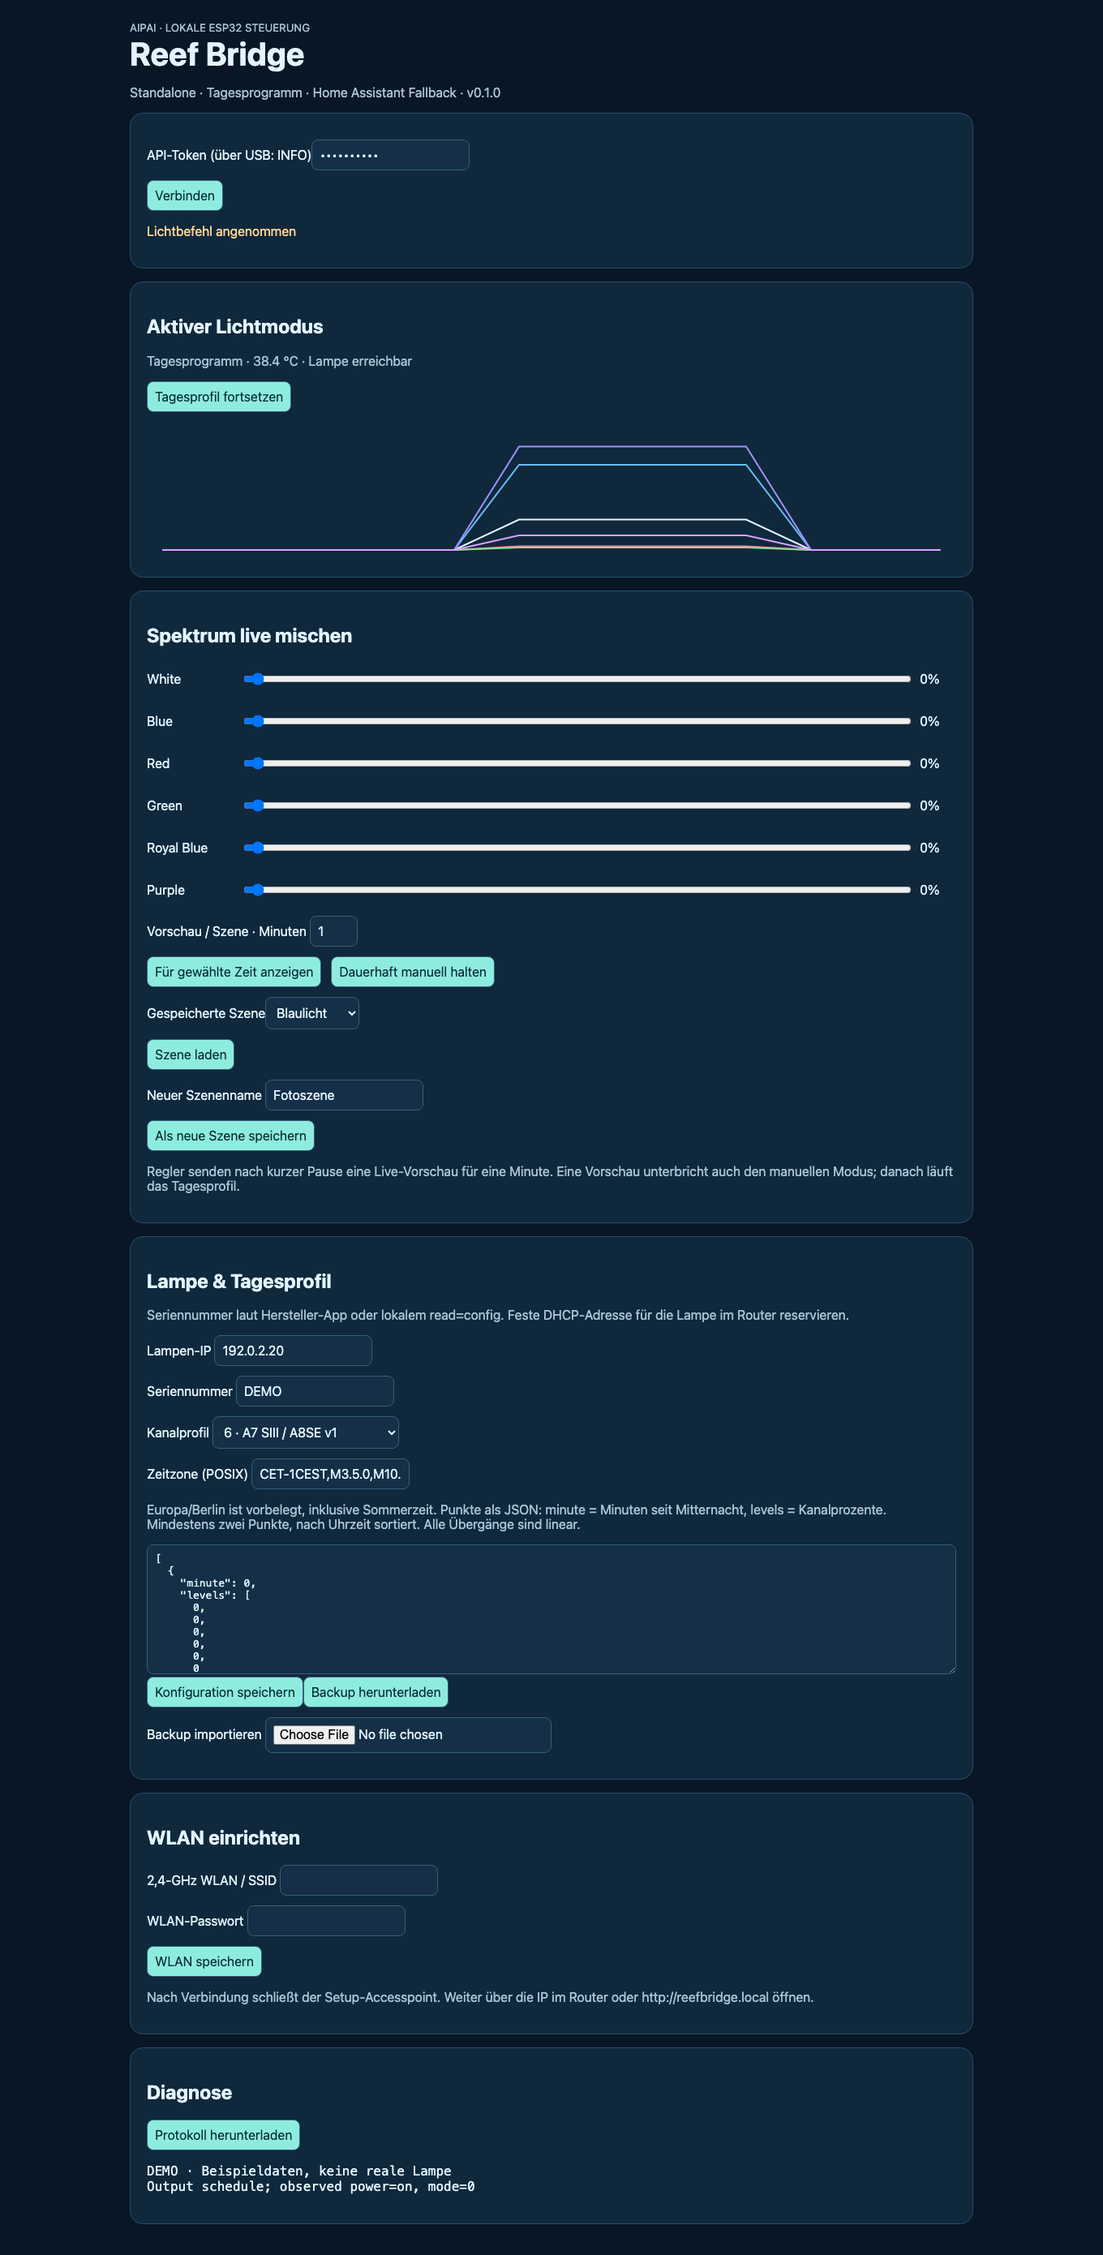
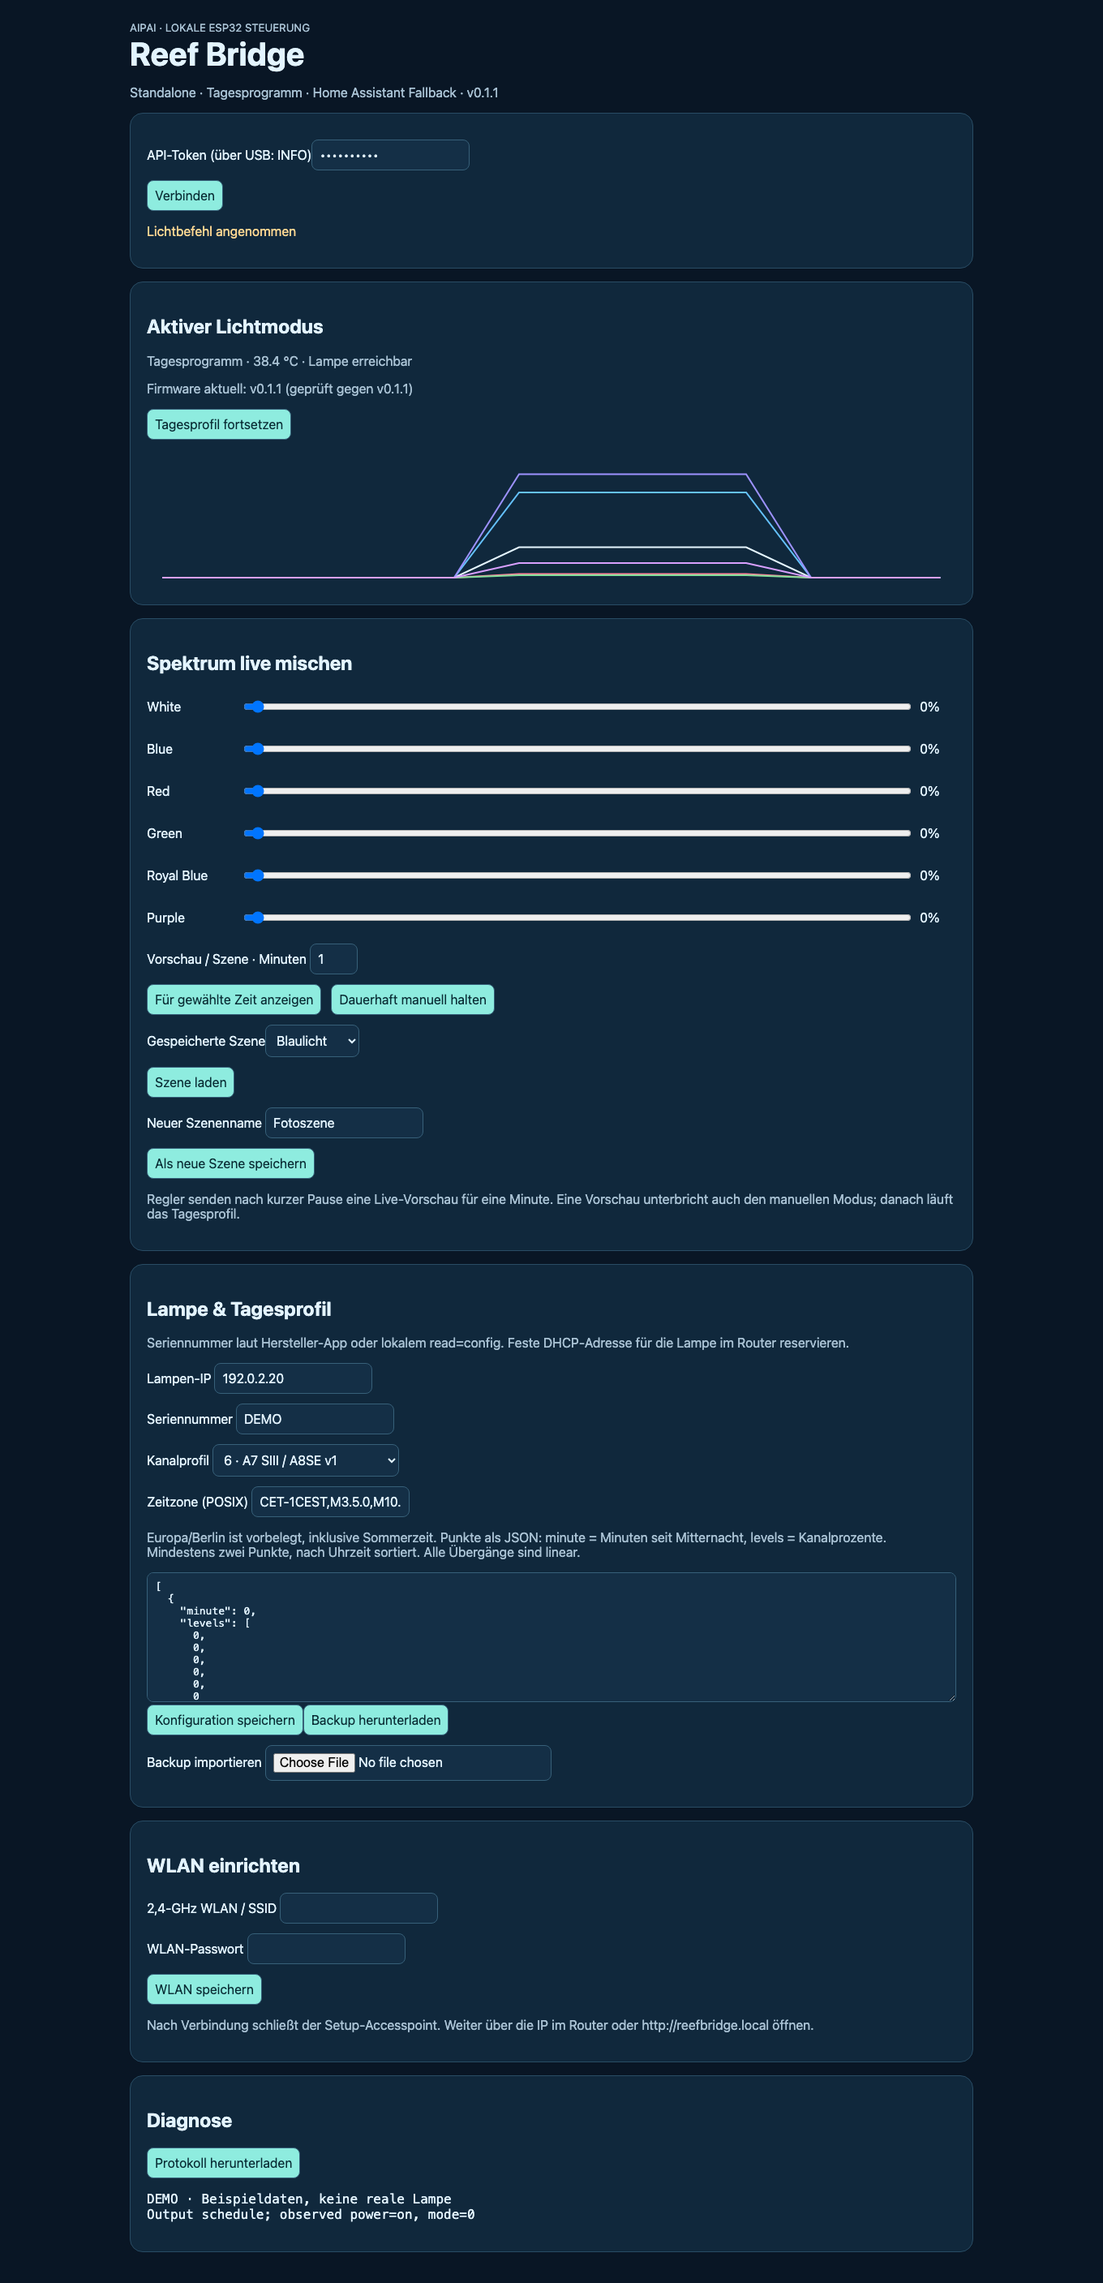
Add Reef Bridge update checks

diff --git a/reef-bridge/web/index.html b/reef-bridge/web/index.html
@@ -1,8 +1,8 @@
 <!doctype html><html lang="de"><meta charset="utf-8"><meta name="viewport" content="width=device-width,initial-scale=1"><title>AIPAI Reef Bridge</title>
 <style>body{background:#091625;color:#e3f4ff;font:16px system-ui;margin:0}main{max-width:1040px;margin:auto;padding:24px}h1{font-size:2.5rem;margin:0}p,small{color:#a9c2d4}section{background:#10283c;border:1px solid #294c64;border-radius:16px;padding:20px;margin:16px 0}button,input,select,textarea{font:inherit;border-radius:8px;border:1px solid #376079;background:#142f46;color:inherit;padding:9px;box-sizing:border-box}button{background:#8eecdf;color:#092c34;cursor:pointer}label{display:block;margin:12px 0}input,select{max-width:100%}textarea{width:100%;min-height:160px;font:13px monospace}pre{white-space:pre-wrap;overflow-wrap:anywhere}svg{width:100%;height:180px}.row{display:flex;gap:12px;flex-wrap:wrap}.channel{display:grid;grid-template-columns:105px 1fr 45px;align-items:center;gap:12px}.channel input{width:100%}#notice{color:#ffd792}a{color:#8eecdf}</style>
-<main><small>AIPAI · LOKALE ESP32 STEUERUNG</small><h1>Reef Bridge</h1><p>Standalone · Tagesprogramm · Home Assistant Fallback · v0.1.0</p>
+<main><small>AIPAI · LOKALE ESP32 STEUERUNG</small><h1>Reef Bridge</h1><p>Standalone · Tagesprogramm · Home Assistant Fallback · v0.1.1</p>
 <section><label>API-Token (über USB: INFO)<input id="token" type="password" autocomplete="off"></label><button id="connect">Verbinden</button><p id="notice" role="status"></p></section>
-<section><h2>Aktiver Lichtmodus</h2><p id="status">Noch nicht verbunden</p><button id="resume">Tagesprofil fortsetzen</button><svg id="curve" viewBox="0 0 960 180" aria-label="Tagesprofil"></svg></section>
+<section><h2>Aktiver Lichtmodus</h2><p id="status">Noch nicht verbunden</p><p id="update"><small>Update-Prüfung erfolgt nach WLAN-Verbindung und danach alle sechs Stunden.</small></p><button id="resume">Tagesprofil fortsetzen</button><svg id="curve" viewBox="0 0 960 180" aria-label="Tagesprofil"></svg></section>
 <section><h2>Spektrum live mischen</h2><div id="channels"></div><label>Vorschau / Szene · Minuten <input id="minutes" type="number" min="1" max="60" value="1"></label><div class="row"><button id="preview">Für gewählte Zeit anzeigen</button><button id="manual">Dauerhaft manuell halten</button></div><label>Gespeicherte Szene<select id="scenes"></select></label><button id="load-scene">Szene laden</button><label>Neuer Szenenname <input id="scene-name" maxlength="64"></label><button id="save-scene">Als neue Szene speichern</button><p>Regler senden nach kurzer Pause eine Live-Vorschau für eine Minute. Eine Vorschau unterbricht auch den manuellen Modus; danach läuft das Tagesprofil.</p></section>
 <section><h2>Lampe & Tagesprofil</h2><p>Seriennummer laut Hersteller-App oder lokalem read=config. Feste DHCP-Adresse für die Lampe im Router reservieren.</p><label>Lampen-IP <input id="lamp-ip" placeholder="192.168.178.141"></label><label>Seriennummer <input id="serial"></label><label>Kanalprofil <select id="count"><option value="6">6 · A7 SIII / A8SE v1</option><option value="8">8 · A8SE II MAX / MAX Pro</option></select></label><label>Zeitzone (POSIX) <input id="zone" value="CET-1CEST,M3.5.0,M10.5.0/3"></label><p>Europa/Berlin ist vorbelegt, inklusive Sommerzeit. Punkte als JSON: minute = Minuten seit Mitternacht, levels = Kanalprozente. Mindestens zwei Punkte, nach Uhrzeit sortiert. Alle Übergänge sind linear.</p><textarea id="points" spellcheck="false"></textarea><button id="save">Konfiguration speichern</button><button id="export">Backup herunterladen</button><label>Backup importieren <input id="import" type="file" accept="application/json"></label></section>
 <section><h2>WLAN einrichten</h2><label>2,4-GHz WLAN / SSID <input id="ssid"></label><label>WLAN-Passwort <input id="wifi-password" type="password"></label><button id="wifi">WLAN speichern</button><p>Nach Verbindung schließt der Setup-Accesspoint. Weiter über die IP im Router oder http://reefbridge.local öffnen.</p></section>
@@ -17,7 +17,7 @@ function download(name,data){const a=document.createElement('a'),url=URL.createO
 function renderLevels(){ $('channels').replaceChildren();levels.forEach((v,i)=>{const label=document.createElement('label');label.className='channel';const title=document.createElement('span');title.textContent=labels[i];const input=document.createElement('input');input.type='range';input.min=0;input.max=100;input.value=v;const out=document.createElement('output');out.textContent=v+'%';input.oninput=()=>{levels[i]=Number(input.value);out.textContent=input.value+'%';clearTimeout(autoTimer);autoTimer=setTimeout(()=>control('preview',60),250);};label.append(title,input,out);$('channels').append(label);});}
 function curve(points){const colors=['#e5f6ff','#65c2ff','#ff819a','#85df9b','#9d92ff','#d9a0ff','#a96aff','#ffc880'];$('curve').replaceChildren();for(let i=0;i<Number($('count').value);i++){const line=document.createElementNS('http://www.w3.org/2000/svg','polyline');line.setAttribute('points',(points||[]).map(p=>(p.minute/1440*960)+','+(170-(p.levels[i]||0)*1.5)).join(' '));line.setAttribute('fill','none');line.setAttribute('stroke',colors[i]);line.setAttribute('stroke-width',2);$('curve').append(line);}}
 function configForm(c){$('lamp-ip').value=c.lamp_ip||'';$('serial').value=c.serial||'';$('count').value=c.channels||6;$('zone').value=c.timezone||'CET-1CEST,M3.5.0,M10.5.0/3';$('points').value=JSON.stringify(c.points||[{minute:0,levels:[0,0,0,0,0,0]},{minute:600,levels:[15,40,0,0,50,5]},{minute:1200,levels:[0,0,0,0,0,0]}],null,2);curve(c.points);}
-async function refresh(){try{state=await api('status');const modes={schedule:'Tagesprogramm',manual:'Dauerhaft manuell',preview:'Zeitbegrenzte Vorschau / Szene',lease:'Home Assistant'};$('status').textContent=(modes[state.mode]||state.mode)+' · '+(state.remaining_seconds?state.remaining_seconds+' s verbleibend · ':'')+(state.temperature!=null?state.temperature.toFixed(1)+' °C · ':'')+(state.lamp_online?'Lampe erreichbar':'Noch keine erfolgreiche Lampenabfrage')+(state.clock_valid?'':' · Warte auf gültige Uhrzeit')+(state.error?' · '+state.error:'');$('log').textContent=(state.log||[]).join('\n');if(!dirty)configForm(state.config||{});if(levels.length!==(state.config.channels||6)){levels=Array(state.config.channels||6).fill(0);renderLevels();}$('scenes').replaceChildren(...(state.config.scenes||[]).map((s,i)=>new Option(s.name,i)));}catch(e){notice(e.message);}}
+async function refresh(){try{state=await api('status');const modes={schedule:'Tagesprogramm',manual:'Dauerhaft manuell',preview:'Zeitbegrenzte Vorschau / Szene',lease:'Home Assistant'};$('status').textContent=(modes[state.mode]||state.mode)+' · '+(state.remaining_seconds?state.remaining_seconds+' s verbleibend · ':'')+(state.temperature!=null?state.temperature.toFixed(1)+' °C · ':'')+(state.lamp_online?'Lampe erreichbar':'Noch keine erfolgreiche Lampenabfrage')+(state.clock_valid?'':' · Warte auf gültige Uhrzeit')+(state.error?' · '+state.error:'');const update=state.update||{};$('update').replaceChildren();if(update.available){const link=document.createElement('a');link.href=update.installer_url||'https://xsiimonox.github.io/aipai-reef-studio/';link.target='_blank';link.rel='noopener';link.textContent='Update verfügbar: v'+update.latest+' – Installer öffnen';$('update').append(link);}else $('update').textContent=update.latest?'Firmware aktuell: v'+state.version+' (geprüft gegen v'+update.latest+')':'Update-Prüfung läuft nach WLAN-Verbindung.';$('log').textContent=(state.log||[]).join('\n');if(!dirty)configForm(state.config||{});if(levels.length!==(state.config.channels||6)){levels=Array(state.config.channels||6).fill(0);renderLevels();}$('scenes').replaceChildren(...(state.config.scenes||[]).map((s,i)=>new Option(s.name,i)));}catch(e){notice(e.message);}}
 async function control(action,seconds){if(busy){queued=true;return;}busy=true;try{await api('control',{action,seconds,levels:[...levels]});notice('Lichtbefehl angenommen');await refresh();}catch(e){notice(e.message);}finally{busy=false;if(queued){queued=false;control('preview',60);}}}
 function configuration(){return{lamp_ip:$('lamp-ip').value.trim(),serial:$('serial').value.trim(),channels:Number($('count').value),timezone:$('zone').value.trim(),points:JSON.parse($('points').value),scenes:state?.config?.scenes||[]};}
 async function save(){try{const c=configuration();await api('config',c);dirty=false;await refresh();notice('Konfiguration gespeichert');}catch(e){notice(e.message);}}

diff --git a/reef-bridge/installer/index.html b/reef-bridge/installer/index.html
@@ -1,7 +1,7 @@
 <!doctype html><html lang="de"><meta charset="utf-8"><meta name="viewport" content="width=device-width,initial-scale=1"><title>Reef Bridge installieren</title>
 <style>body{background:#091625;color:#e3f4ff;font:18px system-ui;max-width:760px;margin:60px auto;padding:20px;line-height:1.6}h1{color:#8eecdf}a{color:#8eecdf}</style>
 <script type="module" src="https://unpkg.com/esp-web-tools@10.1.1/dist/web/install-button.js?module"></script>
-<h1>AIPAI Reef Bridge</h1><p>ESP32-WROOM / ESP32 DevKit · mindestens 4 MB Flash · Firmware 0.1.0 (experimentell)</p>
+<h1>AIPAI Reef Bridge</h1><p>ESP32-WROOM / ESP32 DevKit · mindestens 4 MB Flash · Firmware 0.1.1 (experimentell)</p>
 <p>ESP32 per USB-Datenkabel verbinden. In Chrome oder Edge unter Windows bzw. macOS öffnen, dann installieren. Safari und Firefox unterstützen Web Serial nicht. ESP32-S2, S3 und C3 benötigen andere Firmware und sind hier noch nicht unterstützt.</p>
 <esp-web-install-button manifest="manifest.json"></esp-web-install-button>
 <p>Bei Bedarf BOOT beim Verbinden gedrückt halten. Das Setup-WLAN verwendet bei einer neuen Installation das Passwort <code>ReefBridge2026!</code>. „Logs & Console“ öffnen und <code>INFO</code> senden, um es zu prüfen und den individuellen API-Token zu notieren.</p>

diff --git a/reef-bridge/src/main.cpp b/reef-bridge/src/main.cpp
@@ -2,6 +2,7 @@
 #include <WiFi.h>
 #include <WebServer.h>
 #include <HTTPClient.h>
+#include <WiFiClientSecure.h>
 #include <Preferences.h>
 #include <ESPmDNS.h>
 #include <ArduinoJson.h>
@@ -14,13 +15,15 @@ Preferences prefs;
 DynamicJsonDocument config(16384);
 String token, apPassword, events[80], lastError;
 unsigned eventCount = 0;
-uint32_t lastOutput = 0, overrideEnd = 0, lastReconnect = 0;
+uint32_t lastOutput = 0, overrideEnd = 0, lastReconnect = 0, lastUpdateCheck = 0;
 String mode = "schedule";
 int overrideLevels[8] = {}, sent[8] = {};
 float temperature = NAN;
-bool lampOnline = false, forceOutput = true;
+bool lampOnline = false, forceOutput = true, updateAvailable = false;
+String latestVersion, updateUrl;
 const char* codes[] = {"w", "b", "r", "g", "b2", "p", "uv", "wm"};
 const char* defaultApPassword = "ReefBridge2026!";
+const char* updateManifestUrl = "https://xsiimonox.github.io/aipai-reef-studio/bridge-update.json";
 
 bool expired(uint32_t deadline) { return int32_t(millis() - deadline) >= 0; }
 void logEvent(String text) {
@@ -34,6 +37,37 @@ String randomSecret() {
   return String(buf);
 }
 int channels() { return config["channels"] | 6; }
+int compareVersion(const String& a, const String& b) {
+  int ai = 0, bi = 0;
+  for (int part = 0; part < 3; part++) {
+    int ae = a.indexOf('.', ai), be = b.indexOf('.', bi);
+    int an = a.substring(ai, ae < 0 ? a.length() : ae).toInt();
+    int bn = b.substring(bi, be < 0 ? b.length() : be).toInt();
+    if (an != bn) return an < bn ? -1 : 1;
+    ai = ae < 0 ? a.length() : ae + 1;
+    bi = be < 0 ? b.length() : be + 1;
+  }
+  return 0;
+}
+void checkForUpdate() {
+  lastUpdateCheck = millis();
+  if (WiFi.status() != WL_CONNECTED) return;
+  WiFiClientSecure client; client.setInsecure();
+  HTTPClient http; http.setConnectTimeout(3000); http.setTimeout(4000);
+  if (!http.begin(client, updateManifestUrl)) return;
+  int status = http.GET();
+  String body = status == 200 ? http.getString() : "";
+  http.end();
+  if (status != 200) { logEvent("Update check unavailable (HTTP " + String(status) + ")"); return; }
+  DynamicJsonDocument update(1024);
+  if (deserializeJson(update, body)) { logEvent("Update manifest is invalid"); return; }
+  String version = update["version"] | "";
+  if (version.isEmpty()) { logEvent("Update manifest has no version"); return; }
+  latestVersion = version; updateUrl = update["installer_url"] | "";
+  bool wasAvailable = updateAvailable;
+  updateAvailable = compareVersion(BRIDGE_VERSION, latestVersion) < 0;
+  if (updateAvailable && !wasAvailable) logEvent("Firmware update available: v" + latestVersion);
+}
 void saveConfig() {
   String json; serializeJson(config, json); prefs.putString("config", json);
 }
@@ -202,6 +236,9 @@ void setup() {
     doc["remaining_seconds"] = overrideEnd && !expired(overrideEnd) ? (overrideEnd - millis() + 999) / 1000 : 0;
     if (isfinite(temperature)) doc["temperature"] = temperature;
     doc["error"] = lastError; doc["config"].set(config.as<JsonObject>());
+    JsonObject update = doc.createNestedObject("update");
+    update["available"] = updateAvailable; update["latest"] = latestVersion;
+    update["installer_url"] = updateUrl;
     JsonArray values = doc.createNestedArray("sent"); for (int i=0;i<channels();i++) values.add(sent[i]);
     JsonArray log = doc.createNestedArray("log"); unsigned start = eventCount > 80 ? eventCount-80 : 0;
     for (unsigned i=start;i<eventCount;i++) log.add(events[i%80]);
@@ -248,6 +285,7 @@ void loop() {
     static bool mdns=false; if(!mdns) mdns=MDNS.begin("reefbridge");
     // Setup AP shuts down after the first successful station connection.
     static bool apStopped=false; if(!apStopped) { WiFi.softAPdisconnect(true); apStopped=true; }
+    if (!lastUpdateCheck || millis() - lastUpdateCheck >= 6UL * 60UL * 60UL * 1000UL) checkForUpdate();
   } else if(millis()-lastReconnect>30000) { lastReconnect=millis(); WiFi.reconnect(); }
   if (forceOutput || millis()-lastOutput>=30000 || (overrideEnd && expired(overrideEnd))) {
     forceOutput=false; lastOutput=millis(); output();

diff --git a/reef-bridge/README.md b/reef-bridge/README.md
@@ -1,6 +1,6 @@
 # AIPAI Reef Bridge für ESP32
 
-Eigenständige lokale Steuerung für AIPAI-LED-Lampen – ohne Home Assistant erforderlich. Optional kann Home Assistant über die lokale Bridge-API steuern. Dies ist **Version 0.1.0, ein experimenteller Prototyp**. Kompilieren und simulierte Prüfungen ersetzen keinen Dauertest am echten ESP32 und der Lampe.
+Eigenständige lokale Steuerung für AIPAI-LED-Lampen – ohne Home Assistant erforderlich. Optional kann Home Assistant über die lokale Bridge-API steuern. Dies ist **Version 0.1.1, ein experimenteller Prototyp**. Kompilieren und simulierte Prüfungen ersetzen keinen Dauertest am echten ESP32 und der Lampe.
 
 ![Architektur und Fallback](docs/architecture.svg)
 
@@ -20,9 +20,10 @@ Eigenständige lokale Steuerung für AIPAI-LED-Lampen – ohne Home Assistant er
 - Gerätename/IP, Kanalprofil, Seriennummer-Prüfung, POSIX-Zeitzone mit Sommerzeit, NTP, Temperatur und Diagnoseprotokoll.
 - Programme und WLAN bleiben im Flash; nach Neustart läuft das Tagesprogramm weiter, sobald eine gültige Uhrzeit vorliegt. Temporäre/manuelle Overrides werden beim Neustart aufgehoben.
 - Weboberfläche liegt vollständig in der Firmware; Backup/Import als JSON.
+- Automatische Update-Suche: Nach erfolgreicher WLAN-Verbindung und anschließend alle sechs Stunden prüft die Bridge die veröffentlichte Bridge-Firmware. Ein Hinweis mit Link zum Browser-Installer erscheint im Dashboard; ein Flash-Vorgang geschieht erst nach bewusster Bestätigung.
 - Home Assistant steuert über eine Lease: spätestens 90 Sekunden nach der letzten Bestätigung übernimmt das lokale Tagesprogramm.
 
-Mehrere Programmbibliotheken, Lampengruppen, OTA, automatische Suche, HA-Autodiscovery und die vollständige Reef-Studio-HA-Oberfläche sind noch **nicht** enthalten. Die neue Bridge-Oberfläche ist bewusst ein eigener erster Implementierungsstand.
+Mehrere Programmbibliotheken, Lampengruppen, OTA-Installation, automatische Lampensuche, HA-Autodiscovery und die vollständige Reef-Studio-HA-Oberfläche sind noch **nicht** enthalten. Die neue Bridge-Oberfläche ist bewusst ein eigener erster Implementierungsstand.
 
 ## Hardware
 
@@ -95,7 +96,7 @@ reef_bridge_control_url: http://192.168.178.50/api/control
 reef_bridge_authorization: 'Bearer HIER_DEN_API_TOKEN_EINTRAGEN'
 ```
 
-4. HA-Konfiguration prüfen, neu starten. Modussensor und Helfer erscheinen. Bei acht Kanälen die HA-Spektrum-Liste auf acht Zahlen erweitern.
+4. HA-Konfiguration prüfen, neu starten. Modussensor und Helfer erscheinen. Das Attribut `update` des Modussensors enthält den automatischen Update-Status. Bei acht Kanälen die HA-Spektrum-Liste auf acht Zahlen erweitern.
 5. „Reef Bridge durch HA steuern“ einschalten: HA erneuert alle 30 Sekunden den Spektrum-Befehl mit 90 Sekunden Gültigkeit. Ausschalten kehrt sofort zum Bridge-Tagesprofil zurück. Ein HA-Ausfall führt nach maximal 90 Sekunden plus HTTP-Laufzeit zum lokalen Programm zurück.
 
 Ein dauerhaft manuell aktivierter Bridge-Modus lehnt HA-Leases mit HTTP 409 ab; zuerst „Tagesprofil fortsetzen“ drücken. Ein HA-Tagesprogramm kann später die Helferwerte zeitgesteuert verändern. Das Bridge-Tagesprofil ist das lokal hinterlegte Fallback-Profil, es wird nicht automatisch aus der alten HA-Integration importiert.
@@ -106,7 +107,7 @@ Alle `/api/*`-Aufrufe brauchen `Authorization: Bearer TOKEN`. HTTP nur im vertra
 
 | Methode / Pfad | Funktion |
 | --- | --- |
-| GET `/api/status` | Version, Modus, Restzeit, Temperatur, zuletzt gesendete Pegel, Konfiguration, Log |
+| GET `/api/status` | Version, Modus, Restzeit, Temperatur, Update-Status, zuletzt gesendete Pegel, Konfiguration, Log |
 | POST `/api/wifi` | `{ "ssid": "WLAN", "password": "…" }` |
 | POST `/api/config` | Vollständige Konfiguration mit IP, serial, channels, timezone, points und scenes |
 | POST `/api/control` | `{ "action": "preview", "seconds": 300, "levels": [10,40,0,0,70,5] }` |
@@ -123,7 +124,7 @@ pio run --target upload --upload-port /dev/cu.usbserial-0001
 pio device monitor --baud 115200
 ```
 
-Die Weboberfläche wird beim Build eingebettet. GitHub Actions baut die Firmware, erzeugt ein Factory-Abbild und veröffentlicht den Web-Installer mit GitHub Pages. Versionen für die Bridge werden unabhängig von der HA-Integration gepflegt.
+Die Weboberfläche wird beim Build eingebettet. GitHub Actions baut die Firmware, erzeugt ein Factory-Abbild und veröffentlicht den Web-Installer samt öffentlicher Versionsdatei mit GitHub Pages. Versionen für die Bridge werden unabhängig von der HA-Integration gepflegt.
 
 Vor regulärem Betrieb testen: Seriennummer-Sperre, sechs/acht Kanäle, Tageswechsel, NTP nach Neustart, Abbruch einer Vorschau, Fallback beim Stoppen von HA, WLAN-Ausfall und mindestens 24 Stunden Dauerbetrieb. Der aktuelle Code wurde noch nicht an einem angeschlossenen ESP32/Lampen-Paar abgenommen. Keine automatischen Schreibtests an einem realen Aquarium.
 
